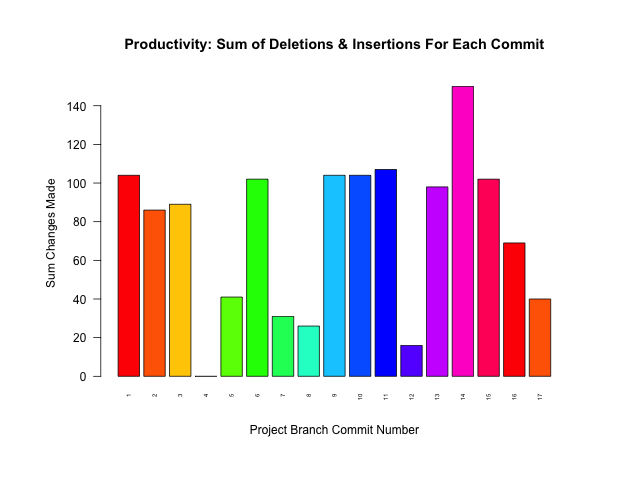
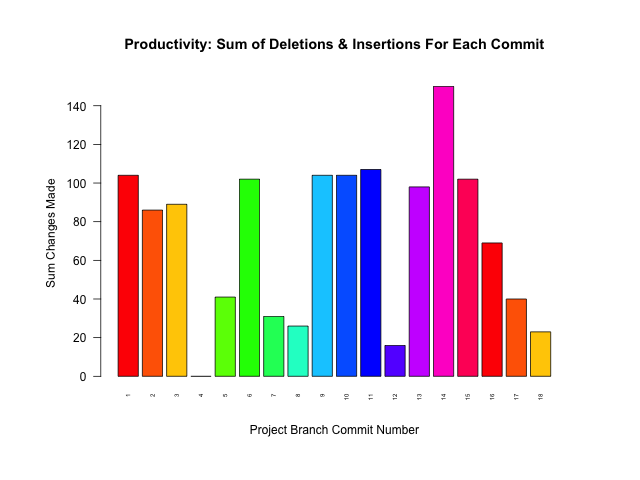
COMMIT #261

Changed region(s): [[0.1875, 0.1562, 0.875, 0.7812], [0.7188, 0.8125, 0.7812, 0.8438], [0.5938, 0.8125, 0.6562, 0.8438]]

diff --git a/README.md b/README.md
@@ -17,8 +17,8 @@ ProjectName::BranchName.data
 
 Project Name | Last Updated | # Commits | # Branches | Branches Merged
 :---|:---:|:---:|:---:|:---:
-[commit_tracker](https://github.com/pierremigeon/commit_tracker)                                    |  2023-07-22  |  259  |  1  |  100%  (1/1)
-[Algorithms_practice](https://github.com/pierremigeon/Algorithms_practice)                          |  2023-07-22  |  17   |  7  |  71%   (5/7)
+[Algorithms_practice](https://github.com/pierremigeon/Algorithms_practice)                          |  2023-07-25  |  18   |  7  |  71%   (5/7)
+[commit_tracker](https://github.com/pierremigeon/commit_tracker)                                    |  2023-07-22  |  260  |  1  |  100%  (1/1)
 [FASTQ_examiner](https://github.com/pierremigeon/FASTQ_examiner)                                    |  2023-07-20  |  74   |  4  |  75%   (3/4)
 [learn_some_C.Plus.Plus](https://github.com/pierremigeon/learn_some_C.Plus.Plus)                    |  2023-07-17  |  79   |  2  |  50%   (1/2)
 [libft](https://github.com/pierremigeon/libft)                                                      |  2023-06-05  |  30   |  2  |  50%   (1/2)
